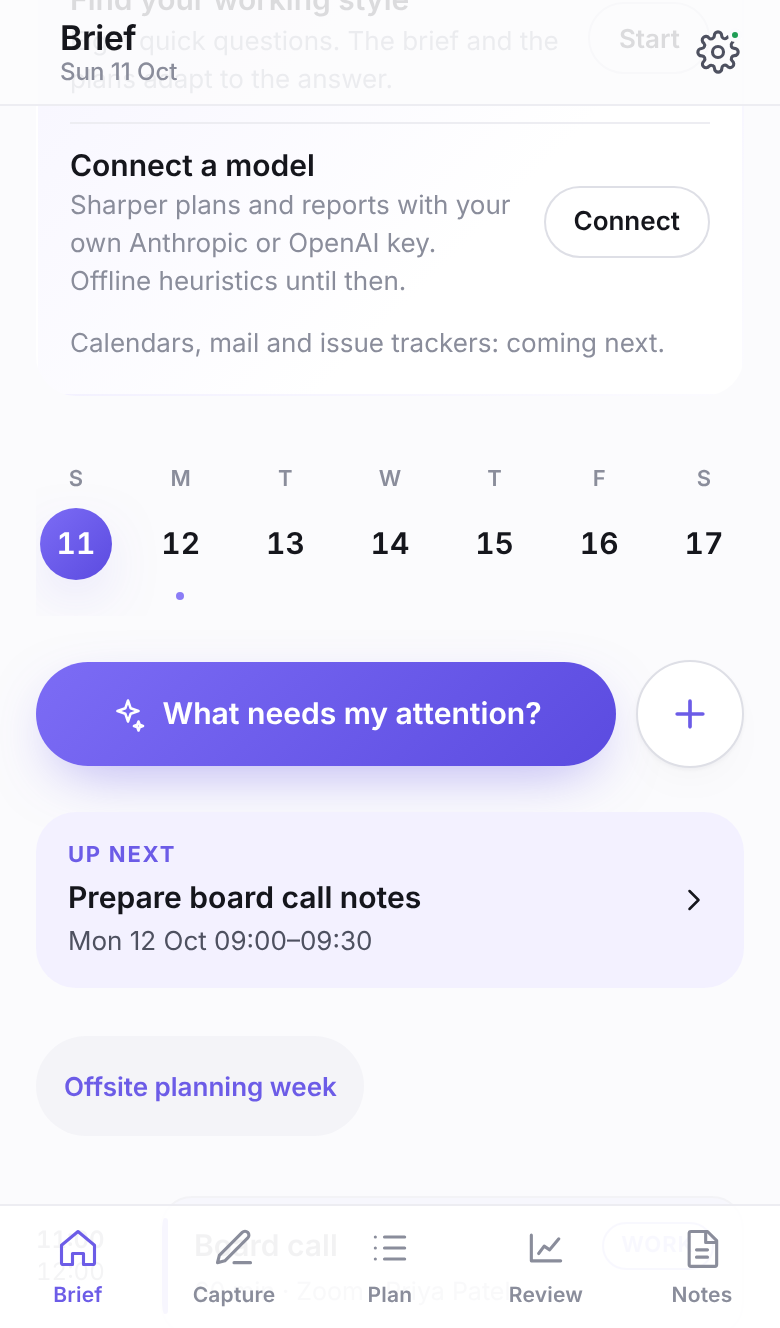
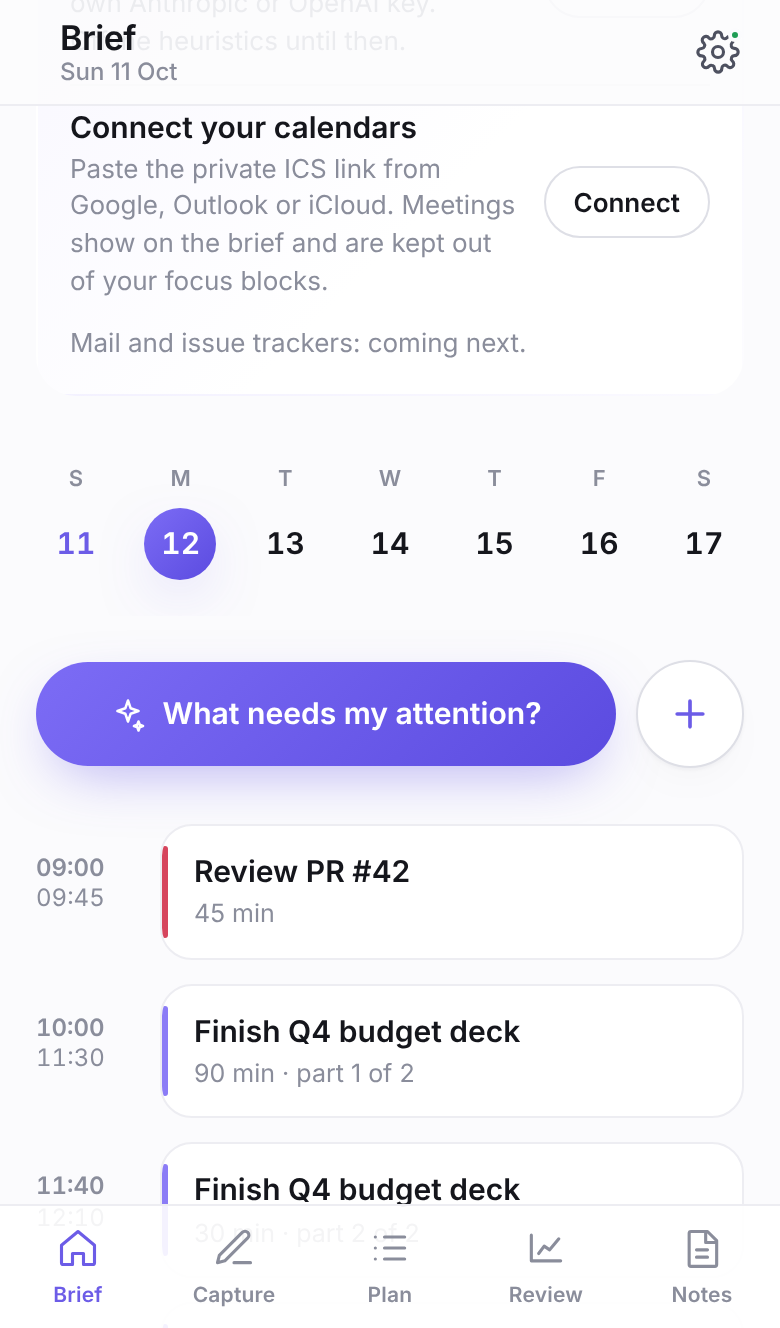
Voice capture and grouped settings
- Capture: a microphone button dictates through the browser's speech
  recognition where available; each phrase becomes a braindump line.
  Hidden where unsupported; permission refusals are explained.
- Settings: grouped the cards the way the brief groups attention:
  Account, You, Intelligence, Calendar & time, Privacy & data, each
  with a caption, so the screen reads as a setup rather than a list.

Claude-Session: https://claude.ai/code/session_011vvXgAmNZx5X2tdoRYntuD

diff --git a/apps/web/src/screens/Settings.tsx b/apps/web/src/screens/Settings.tsx
@@ -20,58 +20,76 @@ export function Settings({ state, session, workspace, focus }: { state: Freenote
   const signedIn = Boolean(session.session);
   return (
     <div className="settings-section stack-lg">
-      <div className="card stack">
-        <div className="row">
-          <span className="icon-btn" style={{ background: "var(--accent-soft)", color: "var(--accent)" }}>
-            <Icon name={signedIn ? "cloud" : "user"} />
-          </span>
-          <div className="grow">
-            <h3>{signedIn ? (session.session?.user.email ?? "Signed in") : "Not signed in"}</h3>
-            <p className="muted small">{signedIn ? "Workspace and settings sync to your account." : session.available ? "Sign in to sync across devices and use your own model key." : "This deployment runs local-only; everything stays in this browser."}</p>
+      <Group caption="Account">
+        <div className="card stack">
+          <div className="row">
+            <span className="icon-btn" style={{ background: "var(--accent-soft)", color: "var(--accent)" }}>
+              <Icon name={signedIn ? "cloud" : "user"} />
+            </span>
+            <div className="grow">
+              <h3>{signedIn ? (session.session?.user.email ?? "Signed in") : "Not signed in"}</h3>
+              <p className="muted small">{signedIn ? "Workspace and settings sync to your account." : session.available ? "Sign in to sync across devices and use your own model key." : "This deployment runs local-only; everything stays in this browser."}</p>
+            </div>
           </div>
+          {signedIn ? (
+            <button className="btn outline" onClick={() => void session.signOut()}>
+              Sign out
+            </button>
+          ) : session.available ? (
+            <SignInForm session={session} />
+          ) : null}
         </div>
-        {signedIn ? (
-          <button className="btn outline" onClick={() => void session.signOut()}>
-            Sign out
-          </button>
-        ) : session.available ? (
-          <SignInForm session={session} />
-        ) : null}
-      </div>
+      </Group>
 
-      <YouCard state={state} workspace={workspace} />
+      <Group caption="You">
+        <YouCard state={state} workspace={workspace} />
+      </Group>
 
-      {signedIn && state.assistant?.api && <AssistantSettings state={state} session={session} />}
-
-      <CalendarsCard state={state} workspace={workspace} autoFocus={focus === "calendars"} />
-
-      <SchedulePrefs state={state} workspace={workspace} />
-
-      <div className="card stack">
-        <h3>Assistant backend</h3>
-        <label className="field">
-          Where the chief of staff runs
-          <select value={state.mode} onChange={(e) => state.setMode(e.target.value as AssistantMode)}>
-            <option value="auto">Auto (server if available, else offline heuristics)</option>
-            <option value="server">Server only</option>
-            <option value="heuristic">Offline heuristics only</option>
-          </select>
-          <small>Currently: {state.assistant?.label ?? "resolving…"}</small>
-        </label>
-        {state.storage === "local" && (
+      <Group caption="Intelligence">
+        {signedIn && state.assistant?.api && <AssistantSettings state={state} session={session} />}
+        <div className="card stack">
+          <h3>Where the chief of staff runs</h3>
           <label className="field">
-            About you
-            <textarea rows={3} value={state.profile} onChange={(e) => state.setProfile(e.target.value)} placeholder="e.g. Head of product at a 40-person startup. Mornings are for deep work." />
-            <small>Sent with every request so the assistant can tailor estimates, plans and questions.</small>
+            Engine
+            <select value={state.mode} onChange={(e) => state.setMode(e.target.value as AssistantMode)}>
+              <option value="auto">Auto (server if available, else offline heuristics)</option>
+              <option value="server">Server only</option>
+              <option value="heuristic">Offline heuristics only</option>
+            </select>
+            <small>Currently: {state.assistant?.label ?? "resolving…"}</small>
           </label>
-        )}
-      </div>
+          {state.storage === "local" && (
+            <label className="field">
+              About you
+              <textarea rows={3} value={state.profile} onChange={(e) => state.setProfile(e.target.value)} placeholder="e.g. Head of product at a 40-person startup. Mornings are for deep work." />
+              <small>Sent with every request so the assistant can tailor estimates, plans and questions.</small>
+            </label>
+          )}
+        </div>
+      </Group>
 
-      <WorkspaceData state={state} signedIn={signedIn} />
+      <Group caption="Calendar & time">
+        <CalendarsCard state={state} workspace={workspace} autoFocus={focus === "calendars"} />
+        <SchedulePrefs state={state} workspace={workspace} />
+      </Group>
+
+      <Group caption="Privacy & data">
+        <WorkspaceData state={state} signedIn={signedIn} />
+      </Group>
+
       <p className="muted small" style={{ textAlign: "center" }}>
         freenotes is open source · <a href="https://github.com/clayandthepotter/freenotes">GitHub</a>
       </p>
     </div>
+  );
+}
+
+function Group({ caption, children }: { caption: string; children: React.ReactNode }) {
+  return (
+    <section className="settings-group" aria-label={caption}>
+      <div className="caption">{caption}</div>
+      {children}
+    </section>
   );
 }
 

diff --git a/apps/web/src/lib/use-dictation.ts b/apps/web/src/lib/use-dictation.ts
@@ -1,0 +1,75 @@
+import { useCallback, useEffect, useMemo, useRef, useState } from "react";
+
+/** The browser's speech recognition, where it exists (Chrome, Safari, Edge). Phrases arrive one at a time. */
+interface RecognitionLike {
+  lang: string;
+  continuous: boolean;
+  interimResults: boolean;
+  onresult: ((e: { resultIndex: number; results: ArrayLike<ArrayLike<{ transcript: string }> & { isFinal: boolean }> }) => void) | null;
+  onerror: ((e: { error: string }) => void) | null;
+  onend: (() => void) | null;
+  start(): void;
+  stop(): void;
+}
+
+function recognitionCtor(): (new () => RecognitionLike) | undefined {
+  const w = window as unknown as { SpeechRecognition?: new () => RecognitionLike; webkitSpeechRecognition?: new () => RecognitionLike };
+  return w.SpeechRecognition ?? w.webkitSpeechRecognition;
+}
+
+export interface Dictation {
+  readonly supported: boolean;
+  readonly listening: boolean;
+  readonly error: string | undefined;
+  start(): void;
+  stop(): void;
+}
+
+export function useDictation(onPhrase: (phrase: string) => void): Dictation {
+  const Ctor = useMemo(recognitionCtor, []);
+  const [listening, setListening] = useState(false);
+  const [error, setError] = useState<string>();
+  const rec = useRef<RecognitionLike | undefined>(undefined);
+  const handler = useRef(onPhrase);
+  handler.current = onPhrase;
+
+  const stop = useCallback(() => {
+    rec.current?.stop();
+    rec.current = undefined;
+    setListening(false);
+  }, []);
+
+  const start = useCallback(() => {
+    if (!Ctor || rec.current) return;
+    setError(undefined);
+    const r = new Ctor();
+    r.lang = navigator.language || "en-US";
+    r.continuous = true;
+    r.interimResults = false;
+    r.onresult = (e) => {
+      for (let i = e.resultIndex; i < e.results.length; i++) {
+        const res = e.results[i];
+        if (!res?.isFinal) continue;
+        const phrase = res[0]?.transcript.trim();
+        if (phrase) handler.current(phrase.charAt(0).toUpperCase() + phrase.slice(1));
+      }
+    };
+    r.onerror = (e) => {
+      setError(e.error === "not-allowed" ? "Microphone access was refused. Allow it in the browser's site settings." : e.error === "no-speech" ? undefined : `Dictation stopped: ${e.error}.`);
+      if (e.error !== "no-speech") stop();
+    };
+    r.onend = () => {
+      if (rec.current === r) {
+        rec.current = undefined;
+        setListening(false);
+      }
+    };
+    rec.current = r;
+    r.start();
+    setListening(true);
+  }, [Ctor, stop]);
+
+  useEffect(() => () => rec.current?.stop(), []);
+
+  return useMemo(() => ({ supported: Boolean(Ctor), listening, error, start, stop }), [Ctor, listening, error, start, stop]);
+}

diff --git a/apps/web/src/screens/Capture.tsx b/apps/web/src/screens/Capture.tsx
@@ -1,4 +1,6 @@
-import { useRef, useState } from "react";
+import { useEffect, useRef, useState } from "react";
+import { Icon } from "../ui/Icon.js";
+import { useDictation } from "../lib/use-dictation.js";
 import type { Workspace } from "@freenotes/core";
 import type { FreenotesState } from "../lib/use-freenotes.js";
 import { TodoCard } from "../ui/TodoCard.js";
@@ -32,6 +34,11 @@ export function Capture({ state, workspace, navigate }: { state: FreenotesState;
     });
   };
 
+  const dictation = useDictation((phrase) => {
+    setText((t) => `${t.trim() ? `${t.replace(/\s+$/, "")}\n` : ""}- ${phrase}`);
+  });
+  useEffect(() => () => dictation.stop(), [dictation]);
+
   const capture = async () => {
     const out = await state.run("Capturing…", (app) => app.braindump({ text, refine }));
     if (out) {
@@ -52,13 +59,22 @@ export function Capture({ state, workspace, navigate }: { state: FreenotesState;
           placeholder={"One thing per line.\n- Finish Q4 budget deck by Friday ~2h\n- [high] Call the dentist\n- Write launch post due Oct 20"}
           autoCapitalize="sentences"
         />
-        <div className="chips" aria-label="Insert a hint">
-          {HINTS.map(([label, token]) => (
-            <button key={label} className="chip outline" onClick={() => insert(token)}>
-              + {label}
+        <div className="row between" style={{ alignItems: "flex-start" }}>
+          <div className="chips" aria-label="Insert a hint">
+            {HINTS.map(([label, token]) => (
+              <button key={label} className="chip outline" onClick={() => insert(token)}>
+                + {label}
+              </button>
+            ))}
+          </div>
+          {dictation.supported && (
+            <button className={`icon-btn mic ${dictation.listening ? "on" : ""}`} aria-pressed={dictation.listening} aria-label={dictation.listening ? "Stop dictating" : "Dictate"} onClick={() => (dictation.listening ? dictation.stop() : dictation.start())}>
+              <Icon name="mic" size={20} />
             </button>
-          ))}
+          )}
         </div>
+        {dictation.listening && <p className="muted small">Listening. Pause between items; each phrase becomes a line.</p>}
+        {dictation.error && <p className="muted small danger">{dictation.error}</p>}
         <label className="check">
           <input type="checkbox" checked={refine} onChange={(e) => setRefine(e.target.checked)} />
           Let the chief of staff estimate and prioritise

diff --git a/apps/web/src/styles.css b/apps/web/src/styles.css
@@ -358,3 +358,8 @@ label.field > small { font-weight: 400; color: var(--muted); }
 .cal-row { display: flex; align-items: center; gap: 12px; padding-top: 10px; border-top: 1px solid var(--line); }
 .cal-row .dot { width: 12px; height: 12px; border-radius: 50%; flex: none; }
 .danger { color: var(--danger); }
+.icon-btn.mic { background: var(--tint); color: var(--accent); flex: none; }
+.icon-btn.mic.on { background: var(--grad); color: #fff; box-shadow: 0 0 0 4px var(--tint); animation: pulse 1.2s ease-in-out infinite; }
+@keyframes pulse { 0%, 100% { box-shadow: 0 0 0 3px var(--tint); } 50% { box-shadow: 0 0 0 8px var(--tint); } }
+.settings-group { display: flex; flex-direction: column; gap: 10px; }
+.settings-group > .caption { font-size: 12px; font-weight: 700; letter-spacing: 0.08em; text-transform: uppercase; color: var(--muted); padding: 4px 2px 0; }

diff --git a/apps/web/src/ui/Icon.tsx b/apps/web/src/ui/Icon.tsx
@@ -21,6 +21,7 @@ const PATHS: Record<string, string> = {
   list: "M4 6h16M4 12h16M4 18h10",
   flag: "M4 22V4a1 1 0 0 1 1-1h10l1 2h4v10h-6l-1-2H4",
   plus: "M12 5v14M5 12h14",
+  mic: "M12 3a3 3 0 0 1 3 3v6a3 3 0 0 1-6 0V6a3 3 0 0 1 3-3zM19 11a7 7 0 0 1-14 0M12 18v3M8 21h8",
   arrow: "M5 12h14M13 6l6 6-6 6",
 };
 
